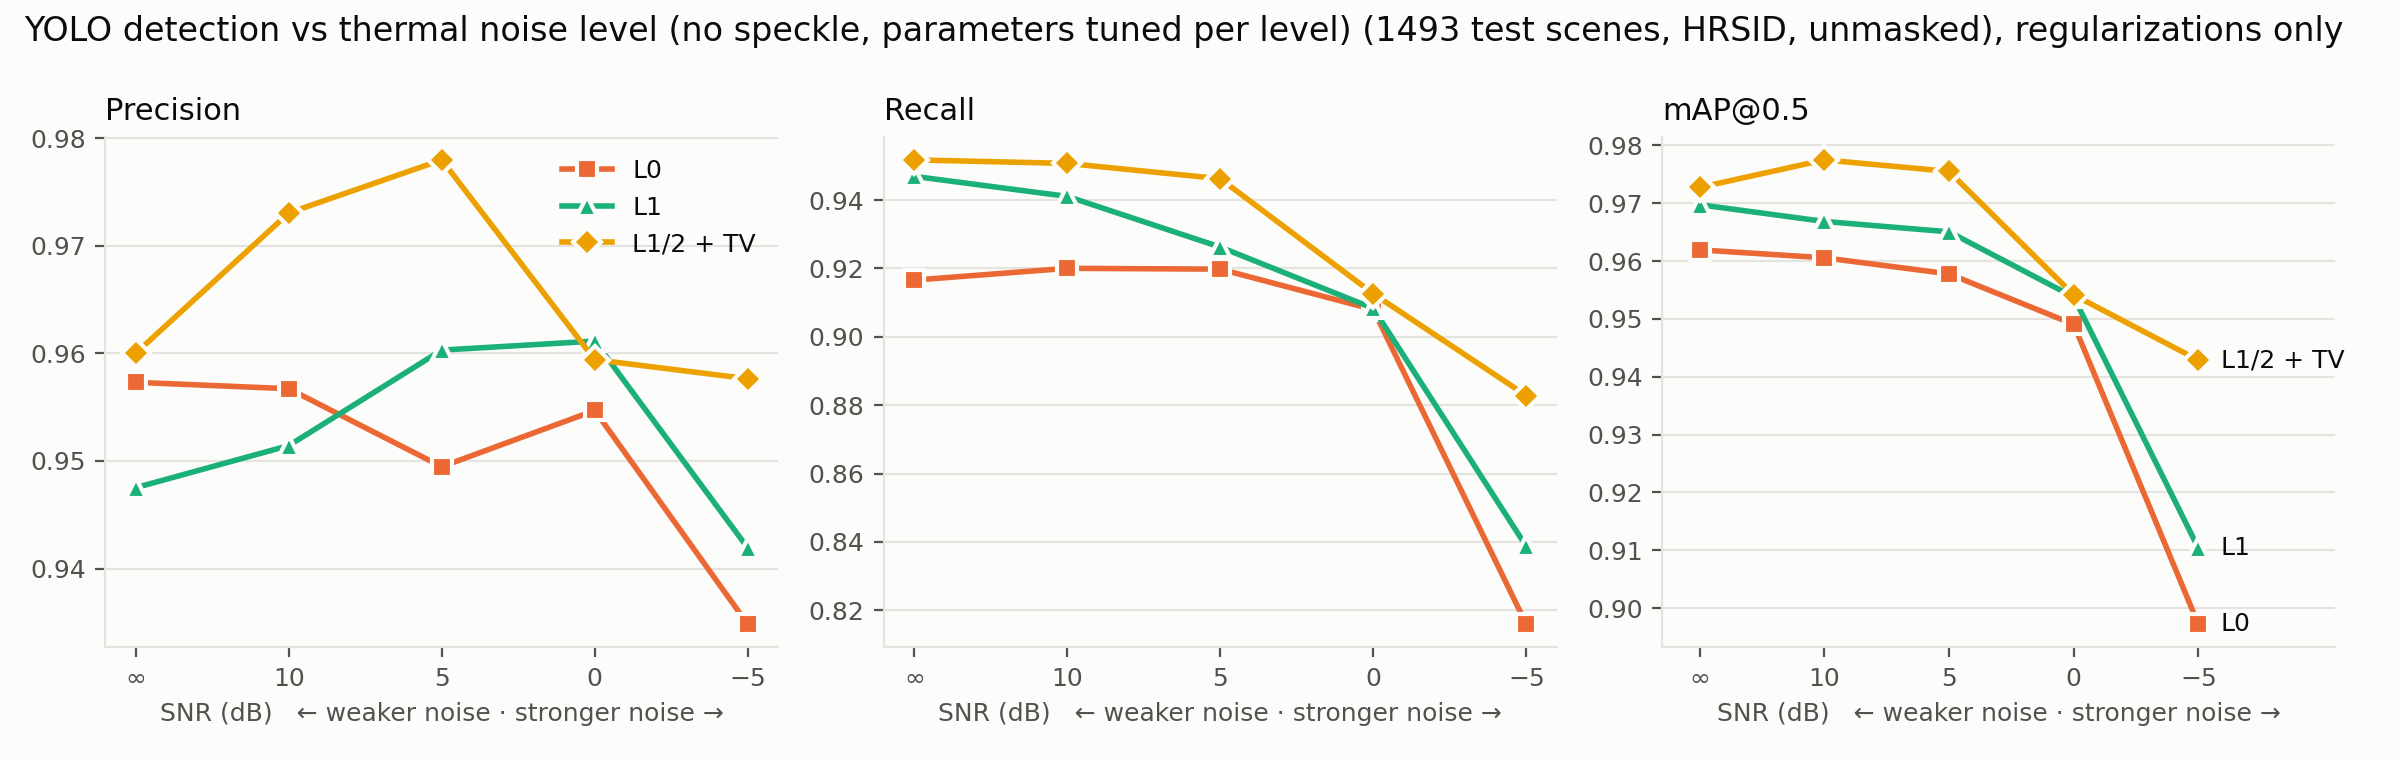
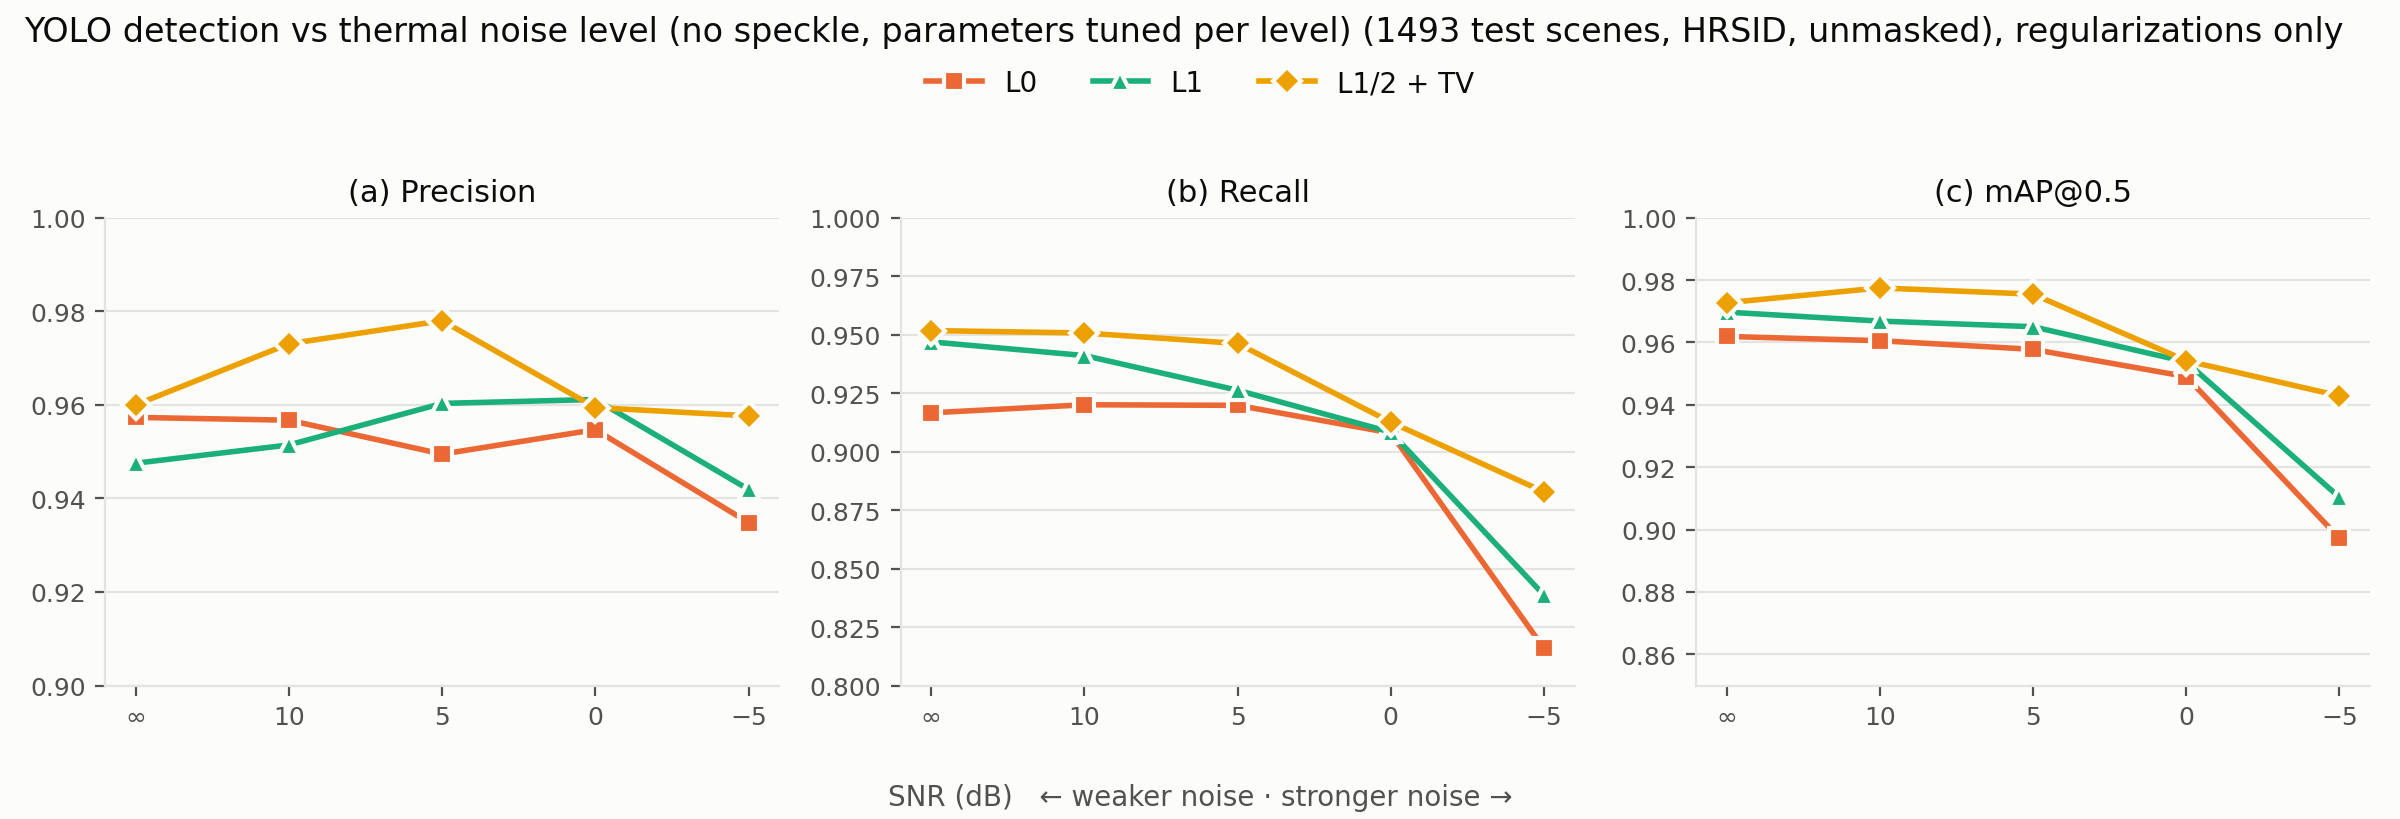
Use paper layout for thermal-noise metrics figures

diff --git a/end_to_end_pipeline/plot_sweep_results.py b/end_to_end_pipeline/plot_sweep_results.py
@@ -50,37 +50,52 @@ MARKER = {"csa": "o", "l0": "s", "l1": "^", "l12tv": "D"}
 INK, INK2, GRID, SURFACE = "#0b0b0b", "#52514e", "#e4e3df", "#fcfcfb"
 
 
-def plot_metrics(run_dir, out, methods=METHODS, title_note=""):
+def plot_metrics(run_dir, out, methods=METHODS, title_note="", ylims=None, paper=False):
+    """paper=True: panels "(a) Precision / (b) Recall / (c) mAP@0.5", one shared x label and one
+    shared legend above the panels (no direct labels); ylims = [(lo, hi)] * 3 fixes the y ranges."""
     import matplotlib
     matplotlib.use("Agg")
     import matplotlib.pyplot as plt
     SSR, key_lv = CFG["levels"], CFG["key"]
     rows = [r for r in csv.DictReader(open(os.path.join(run_dir, "results.csv"))) if r["set"] == CFG["set"]]
     n = rows[0]["n"]
-    fig, axes = plt.subplots(1, 3, figsize=(12, 3.8), facecolor=SURFACE)
-    for ax, (key, title) in zip(axes, (("precision", "Precision"), ("recall", "Recall"), ("map50", "mAP@0.5"))):
+    fig, axes = plt.subplots(1, 3, figsize=(12, 4.1 if paper else 3.8), facecolor=SURFACE)
+    panels = (("precision", "Precision"), ("recall", "Recall"), ("map50", "mAP@0.5"))
+    for i, (ax, (key, title)) in enumerate(zip(axes, panels)):
         ax.set_facecolor(SURFACE)
         for m in methods:
             y = [float(next(r[key] for r in rows if r[key_lv] == s and r["method"] == m)) for s in SSR]
             ax.plot(range(len(SSR)), y, color=COLOR[m], marker=MARKER[m], markersize=7, linewidth=2,
                     markeredgecolor=SURFACE, markeredgewidth=1.5, label=LABEL[m], zorder=3)
-            if key == "map50":  # direct labels at the right end of the headline panel
+            if key == "map50" and not paper:  # direct labels at the right end of the headline panel
                 ax.annotate(LABEL[m], (len(SSR) - 1, y[-1]), xytext=(8, 0), textcoords="offset points",
                             va="center", fontsize=9, color=INK)
-        ax.set_title(title, color=INK, fontsize=11, loc="left")
+        ax.set_title(f"({'abc'[i]}) {title}" if paper else title, color=INK, fontsize=11, loc="center" if paper else "left")
         ax.set_xticks(range(len(SSR)), CFG["labels"])
-        ax.set_xlabel(f"{CFG['name']} (dB)   ← {CFG['weaker']} · {CFG['stronger']} →", color=INK2, fontsize=9)
+        if ylims:
+            ax.set_ylim(*ylims[i])
+        if not paper:
+            ax.set_xlabel(f"{CFG['name']} (dB)   ← {CFG['weaker']} · {CFG['stronger']} →", color=INK2, fontsize=9)
         ax.grid(axis="y", color=GRID, linewidth=0.8)
         ax.tick_params(colors=INK2, labelsize=9)
         for s in ("top", "right"):
             ax.spines[s].set_visible(False)
         for s in ("left", "bottom"):
             ax.spines[s].set_color(GRID)
-    axes[2].set_xlim(-0.3, len(SSR) - 1 + 1.1)
-    axes[0].legend(frameon=False, fontsize=9, labelcolor=INK, loc="best")
-    fig.suptitle(f"YOLO detection vs {CFG['title']} ({n} test scenes, HRSID, unmasked){title_note}",
-                 color=INK, fontsize=12, x=0.01, ha="left")
-    fig.tight_layout()
+    if paper:
+        handles, labels = axes[0].get_legend_handles_labels()
+        fig.legend(handles, labels, loc="upper center", ncol=len(methods), frameon=False, fontsize=10,
+                   labelcolor=INK, bbox_to_anchor=(0.5, 0.945))
+        fig.supxlabel(f"{CFG['name']} (dB)   ← {CFG['weaker']} · {CFG['stronger']} →", color=INK2, fontsize=10)
+        fig.suptitle(f"YOLO detection vs {CFG['title']} ({n} test scenes, HRSID, unmasked){title_note}",
+                     color=INK, fontsize=12, x=0.01, ha="left")
+        fig.tight_layout(rect=(0, 0, 1, 0.9))
+    else:
+        axes[2].set_xlim(-0.3, len(SSR) - 1 + 1.1)
+        axes[0].legend(frameon=False, fontsize=9, labelcolor=INK, loc="best")
+        fig.suptitle(f"YOLO detection vs {CFG['title']} ({n} test scenes, HRSID, unmasked){title_note}",
+                     color=INK, fontsize=12, x=0.01, ha="left")
+        fig.tight_layout()
     fig.savefig(out, dpi=200, facecolor=SURFACE)
     plt.close(fig)
 
@@ -268,10 +283,20 @@ def main():
     run_dir = os.path.join(BASE, CFG["dir"], args.run)
     out_dir = os.path.join(run_dir, "figures")
     os.makedirs(out_dir, exist_ok=True)
-    plot_metrics(run_dir, os.path.join(out_dir, f"metrics_vs_{CFG['key']}.png"))
+    if args.experiment == "noise":  # paper layout: fixed y ranges, shared x label and legend
+        plot_metrics(run_dir, os.path.join(out_dir, "metrics_vs_snr.png"), paper=True,
+                     ylims=[(0.90, 1.00), (0.0, 1.00), (0.0, 1.00)])
+    else:
+        plot_metrics(run_dir, os.path.join(out_dir, f"metrics_vs_{CFG['key']}.png"))
     # regularizations only: without CSA the y-axes zoom in on their differences
-    plot_metrics(run_dir, os.path.join(out_dir, f"metrics_vs_{CFG['key']}_regularization.png"),
-                 methods=[m for m in METHODS if m != "csa"], title_note=", regularizations only")
+    reg = [m for m in METHODS if m != "csa"]
+    if args.experiment == "noise":
+        plot_metrics(run_dir, os.path.join(out_dir, "metrics_vs_snr_regularization.png"), methods=reg,
+                     title_note=", regularizations only", paper=True,
+                     ylims=[(0.90, 1.00), (0.80, 1.00), (0.85, 1.00)])
+    else:
+        plot_metrics(run_dir, os.path.join(out_dir, f"metrics_vs_{CFG['key']}_regularization.png"), methods=reg,
+                     title_note=", regularizations only")
     if args.experiment == "noise":
         plot_tuning(run_dir, os.path.join(out_dir, "metrics_vs_snr_tuning.png"))
     if args.metrics_only:
